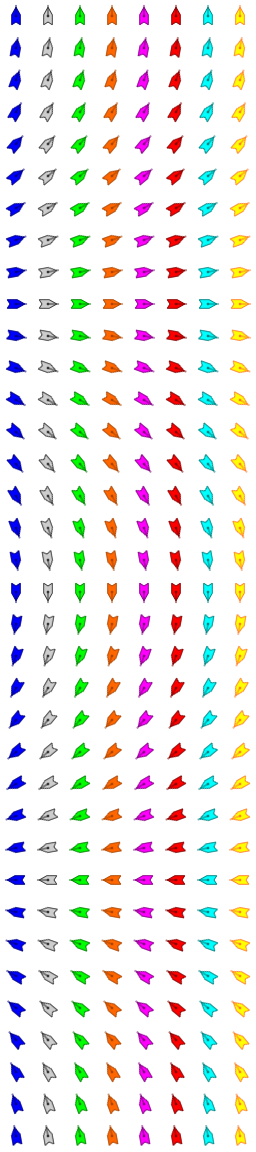
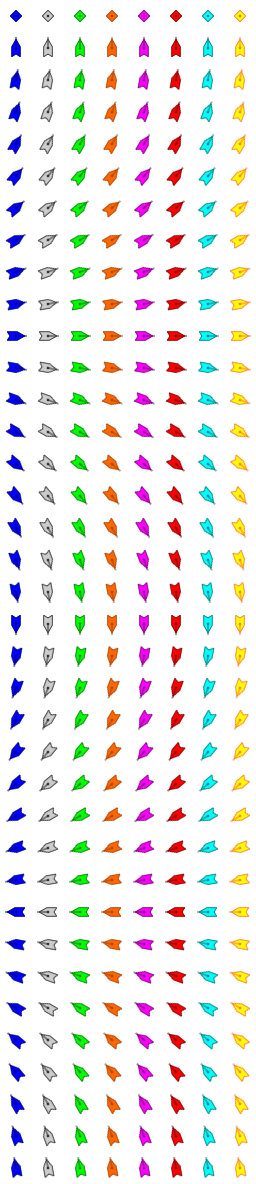
Added moored sprites

diff --git a/web/js/ais.js b/web/js/ais.js
@@ -56,27 +56,36 @@ function Ship(shipId, ship, markerScale, selected) {
 			break;
 	}
 	
-	// Set navigational state
 	if (ship[5] == 1) {
-		this.state = "moored";
-	} else {
-		var degree = Math.round(ship[0] / 10.0) * 10;
-		if (degree == 360) {
-			degree = 0;
-		}
-		this.state = degree;
+		this.moored = true;
+	}
+	
+	this.degree = Math.round(ship[0] / 10.0) * 10;
+	if (this.degree == 360) {
+		this.degree = 0;
 	}
 	
 	// Generate the marker image
 	if(!selected) {
-		this.markerImage = new google.maps.MarkerImage('img/ships.png',
-		    // Set size
-		    new google.maps.Size(markerDimension * markerScale, markerDimension * markerScale),
-		    // Set origin
-		    new google.maps.Point(markerDimension * this.color, markerDimension * this.state / markerAngleInterval),
-		    // Set anchor
-		    new google.maps.Point(markerAnchor * markerScale, markerAnchor * markerScale)
-	    );
+		if(!this.moored) {
+			this.markerImage = new google.maps.MarkerImage('img/ships.png',
+			    // Set size
+			    new google.maps.Size(markerDimension * markerScale, markerDimension * markerScale),
+			    // Set origin
+			    new google.maps.Point(markerDimension * this.color, markerDimension * (this.degree / markerAngleInterval + 1)),
+			    // Set anchor
+			    new google.maps.Point(markerAnchor * markerScale, markerAnchor * markerScale)
+		    );
+		} else {
+			this.markerImage = new google.maps.MarkerImage('img/ships.png',
+			    // Set size
+			    new google.maps.Size(markerDimension * markerScale, markerDimension * markerScale),
+			    // Set origin
+			    new google.maps.Point(markerDimension * this.color, 0),
+			    // Set anchor
+			    new google.maps.Point(markerAnchor * markerScale, markerAnchor * markerScale)
+		    );
+		}
 	} else {
 		//TODO: generate a path to image when marker is selected.
 	}
@@ -98,8 +107,11 @@ Ship.prototype = {
 	get getColor() {
 		return this.color;
 	},
-	get getState() {
-		return this.state;
+	get isMoored() {
+		return this.moored;
+	},
+	get getDegree() {
+		return this.degree;
 	},
 	get getLatLon() {
 		return this.latlon;
